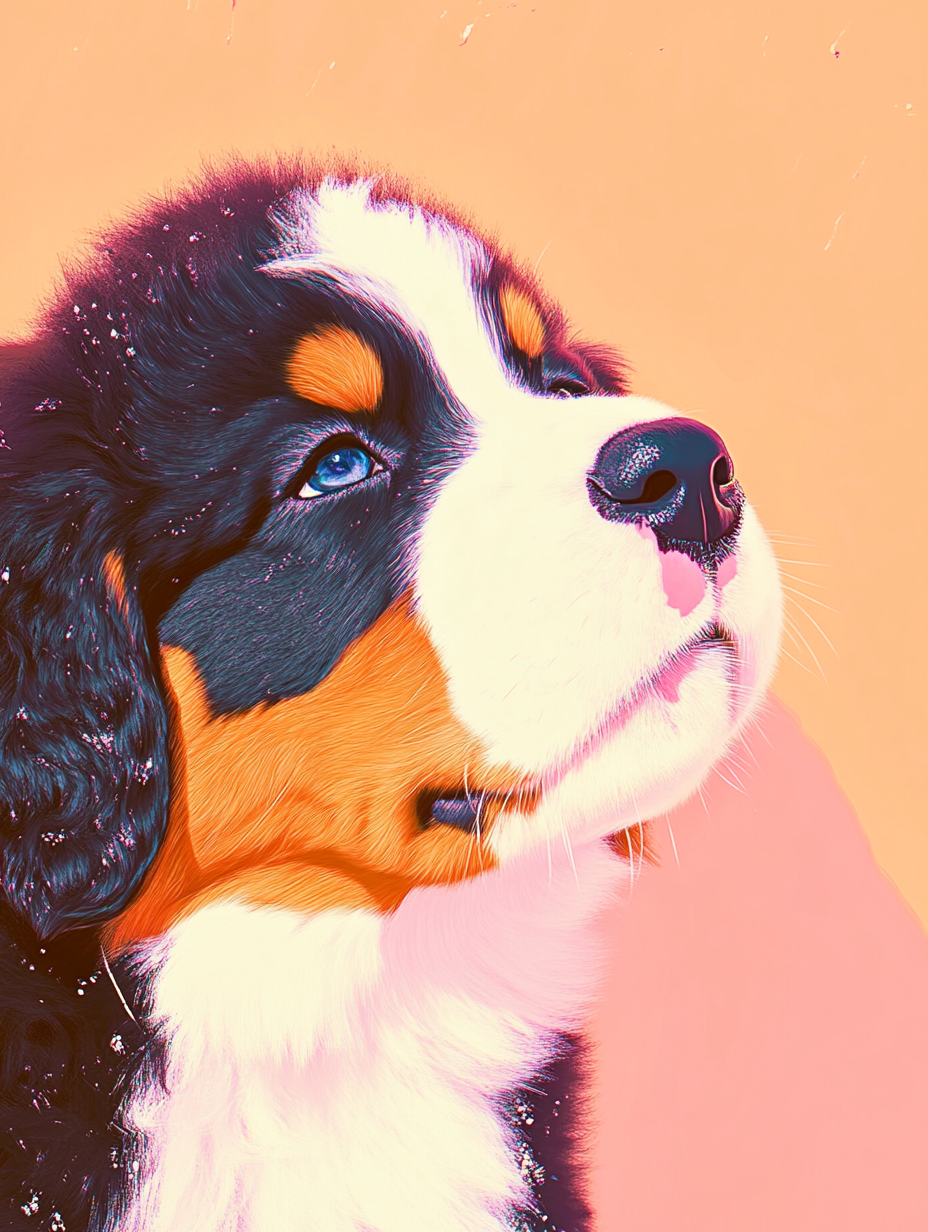
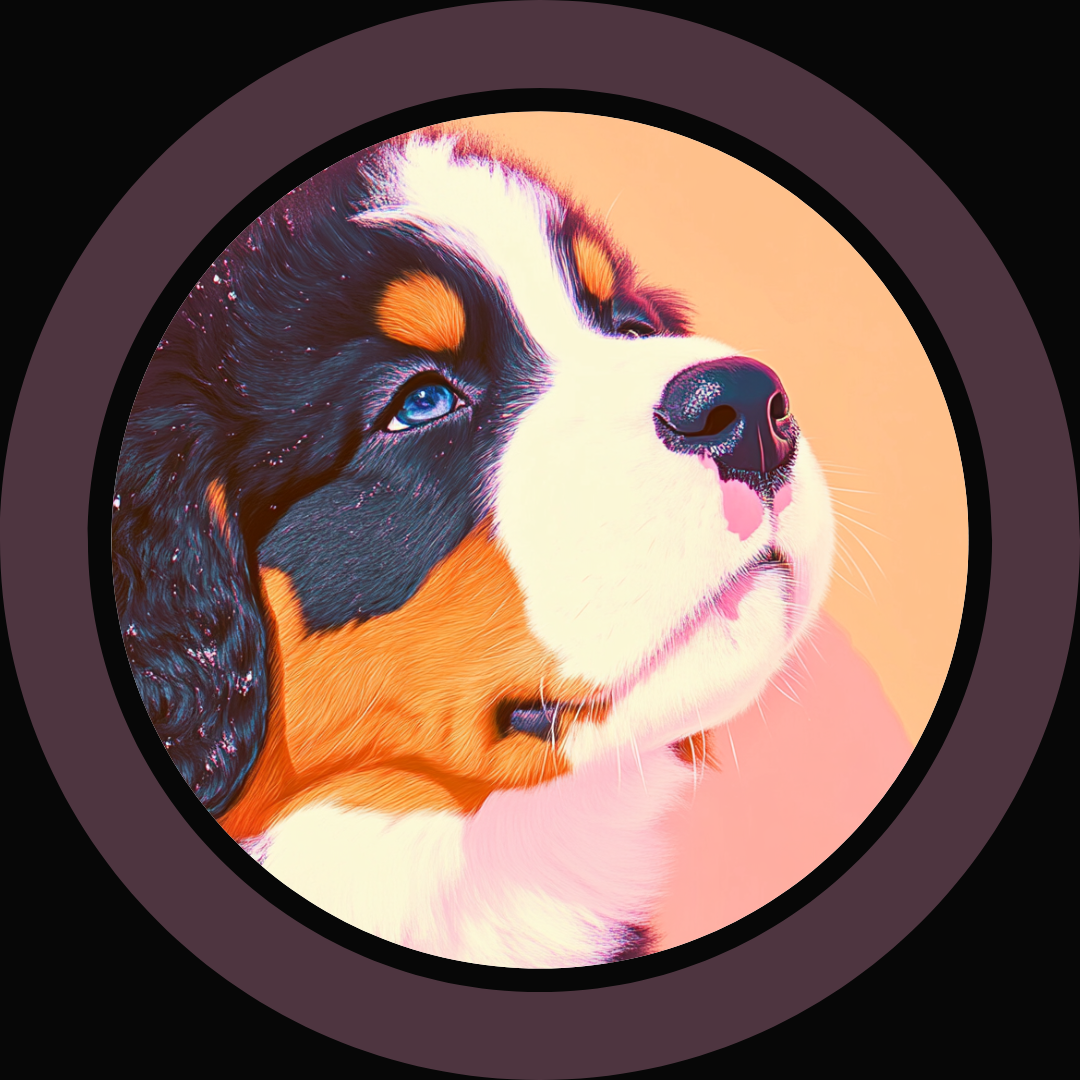
feat: add TopSection component with styling and update project structure
- Updated `index.html` with new content (Google Fonts)
- Updated `profileImage.png` in `src/assets`
- Created `TopSection.jsx` in `src/components` and added content for profile section
- Styled `TopSection.jsx` with a custom layout, responsive design, and hover effects
- Renamed `index.css` to `style.css` and added necessary styles for TopSection component

diff --git a/static-pages/src/style.css b/static-pages/src/style.css
@@ -1,0 +1,116 @@
+* {
+	padding: 0;
+	margin: 0;
+	box-sizing: border-box;
+}
+
+:root {
+	--primary-color: #ff7613;
+	--text-color: #727171;
+}
+
+html {
+	font-size: 10px;
+}
+
+body {
+	font-family: "Space Grotesk", sans-serif;
+	background-color: black;
+	color: white;
+}
+
+/* Common Styles */
+img {
+	width: 256px;
+	height: 256px;
+	object-fit: contain;
+}
+
+a {
+	text-decoration: none;
+	color: white;
+}
+
+.description {
+	margin-top: 1rem;
+	font-size: 1.5rem;
+	font-weight: 400;
+	color: var(--text-color);
+
+}
+
+/* Layouts */
+.container {
+	max-width: 1000px;
+	width: 90%;
+	margin: 0 atuo;
+	display: grid;
+	padding: 5rem;
+	background: #070707;
+	grid-template-columns: 1fr 1fr;
+	gap: 4rem;
+}
+
+@media only screen and (max-width: 768px) {
+	.container {
+		wdith: 100%;
+		grid-template-columns: 1fr;
+		padding: 3rem;
+		gap: 7rem;
+	}
+}
+
+.profile {
+	grid-column: 1 / -1;
+	margin-bottom: 2rem;
+}
+
+/* Profile */
+.profile_container {
+	display: flex;
+	gap: 2rem;
+}
+
+.porfile_profileImg {
+	max-width: 250px;
+}
+
+.profile_name_firstName {
+	color: white;
+	font-weight: 200;
+	font-size: clamp(2rem, 8vw, 4rem);
+	text-transform: uppercase;
+	display: block;
+	margin-bottom: -0.8rem;
+}
+
+.profile_name_lastName {
+	color: var(--primary-color);
+	font-weight: 700;
+	font-size: clamp(2.5rem, 15vw, 7rem);
+	text-transform: uppercase;
+	display: block;
+}
+
+.profile_title {
+	font-size: 1.5rem;
+	font-weight: 400;
+	text-transform: uppercase;
+}
+
+.downloadButton {
+	display: block;
+	text-decoration: underline;
+	font-size: 1.6rem;
+	margin-top: 1rem;
+}
+
+.downloadButton:hover {
+	color: var(--primary-color);
+}
+
+@media only screen and (max-width: 768px) {
+	.profile_container {
+		flex-description: column;
+	}
+}

diff --git a/static-pages/src/components/TopSection.jsx b/static-pages/src/components/TopSection.jsx
@@ -10,7 +10,10 @@ export default function TopSection() {
 						/>
 					</div>
 					<div>
-						<h1 className="profile_name">Cesar Gonzalez</h1>
+						<h1 className="profile_name">
+							<span className="profile_name_firstName">Cesar</span>
+							<span className="profile_name_lastName">Gonzalez</span>
+						</h1>
 						<p className="profile_title">Developer</p>
 						<p className="description">
 							Lorem Ipsum dolor sit amet, consectetur adipiscing elit,
@@ -18,10 +21,10 @@ export default function TopSection() {
 							magna aliqua.
 						</p>
 						<a
-							className="download" 
+							className="downloadButton" 
 							href="src/assets/cv.pdf"
 							download="resume.pdf"
-						>Download Button
+						>Download
 						</a>
 					</div>
 				</div>

diff --git a/static-pages/index.html b/static-pages/index.html
@@ -1,14 +1,23 @@
 <!doctype html>
 <html lang="en">
   <head>
+    <!-- Boilerplate -->
     <meta charset="UTF-8" />
     <link rel="icon" type="image/svg+xml" href="/vite.svg" />
     <meta http-equiv="X-UA-Compatible" content="IE-edge">
     <meta name="viewport" content="width=device-width, initial-scale=1.0" />
     <title>Resume</title>
+
+    <!-- Fonts -->
+    <link rel="preconnect" href="https://fonts.googleapis.com">
+    <link rel="preconnect" href="https://fonts.gstatic.com" crossorigin>
+    <link href="https://fonts.googleapis.com/css2?family=Space+Grotesk:wght@300..700&display=swap" rel="stylesheet">
+
   </head>
+
   <body>
     <div id="root"></div>
     <script type="module" src="/src/main.jsx"></script>
   </body>
+
 </html>
